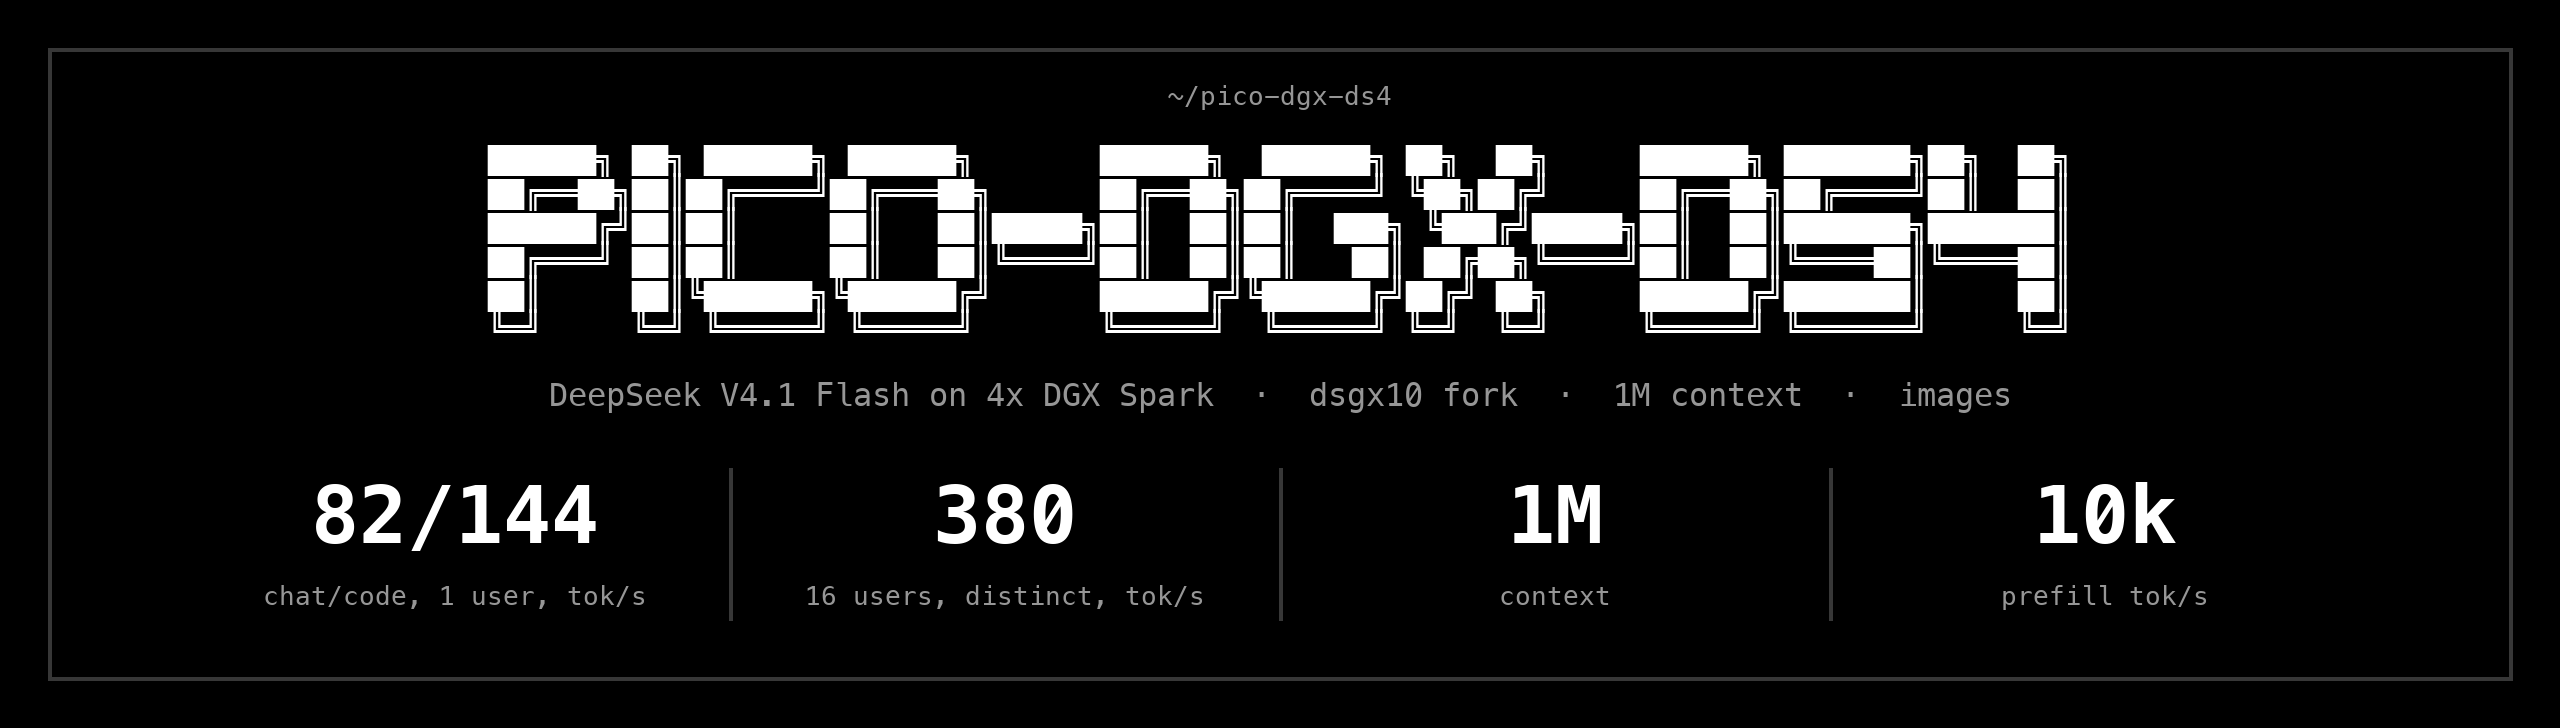
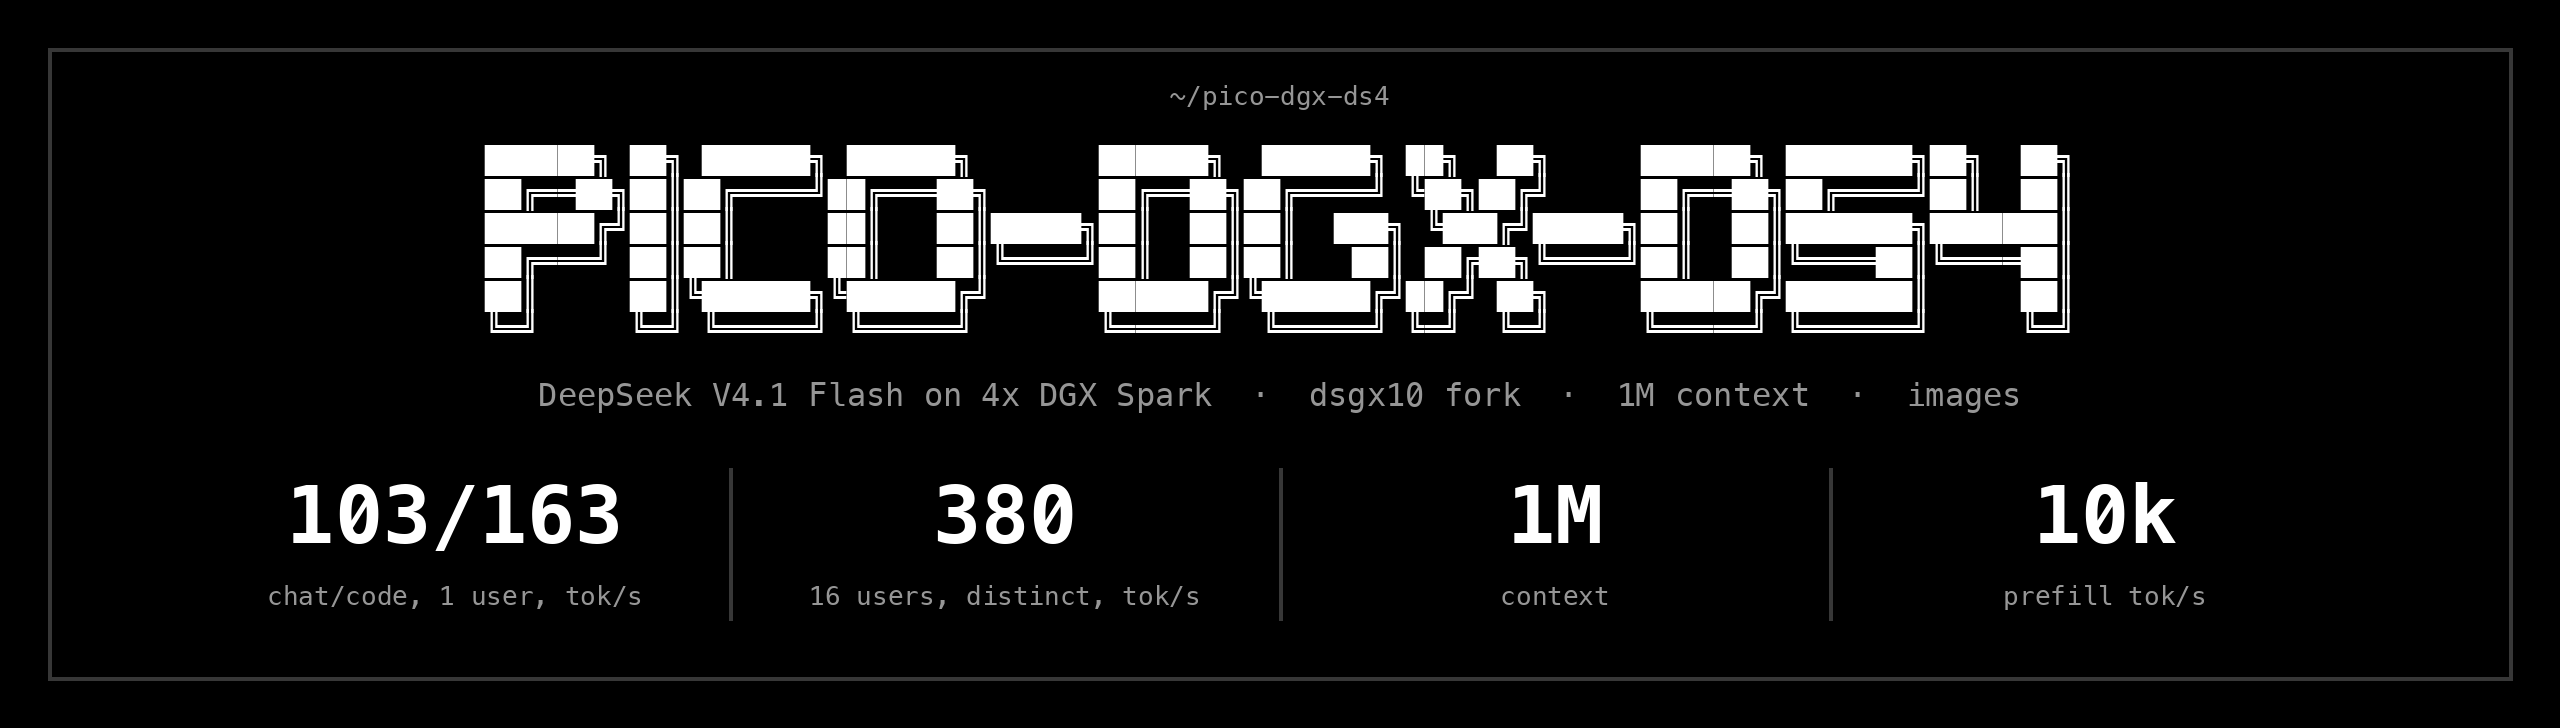
c1fast: relaxed accept for one-user greedy decode (DSGB10_RELAX_P=0.003, DSGB10_RELAX_THRESH=0.05; lossy, opt-in, batches and sampling unchanged): chat c1 82 -> 103, code c1 144 -> 163 (our bench); sparkDash 1.8.8 prose 145 / code 172 (exact build 101 / 166); qeval 72/71/71, distinct c16 381, needle

diff --git a/ds41f-4xgx10-switchless/engine/server/cmd.cpp b/ds41f-4xgx10-switchless/engine/server/cmd.cpp
@@ -181,14 +181,22 @@ DecodeEnd spec_loop(model::Model& m, const Cmd& c, Watchdog& wd, const OnSample&
   cfg.pos_end = pos_end;
   cfg.gate = c.spec_gate;
   std::copy(c.spec_row_ms, c.spec_row_ms + model::ops::kDrafts + 1, cfg.step_ms);
+  // c1fast: DSGB10_RELAX_THRESH=T: a greedy one-session decode verifies drafts while survival >= T (fixed), the gate
+  // that pairs with DSGB10_RELAX's relaxed accept (sample.cu); sampled requests and batch steps keep the default gate
+  static const float relax_thresh = [] {
+    const char* v = getenv("DSGB10_RELAX_THRESH");
+    return v ? (float)atof(v) : -1.f;
+  }();
+  const bool rgate = relax_thresh >= 0.f && !(c.sp.temperature > 0.f);
+  auto gate_of = [&] { return rgate ? relax_thresh : rate.thresh(c); };
   auto verify = [&](int bound) {
-    cfg.thresh = rate.thresh(c);
+    cfg.thresh = gate_of();
     e.gate(cfg.thresh);
     return m.launch_verify(c.sp, cfg, std::min(bound, c.limit - 1));
   };
   std::vector<int32_t> toks{c.tokens[0]};  // tok_0, tok_1, ...: positions pos0, pos0 + 1, ...
   int next_snap = c.snap_every > 0 ? (c.pos0 / c.snap_every + 1) * c.snap_every : INT32_MAX;
-  cfg.thresh = rate.thresh(c);
+  cfg.thresh = gate_of();
   e.gate(cfg.thresh);
   const uint64_t first = m.launch_spec(1, c.pos0, c.tokens, c.sp, cfg);
   int launched = 1, prev_rows = 1;

diff --git a/ds41f-4xgx10-switchless/docs/c1fast.md b/ds41f-4xgx10-switchless/docs/c1fast.md
@@ -1,0 +1,81 @@
+# c1fast: single-stream decode (chat target 100 tok/s, our bench 9-run median, temp 0)
+
+STATUS (2026-11-09 05:52 UTC): DEPLOYED c1c + DSGB10_RELAX_P=0.003 DSGB10_RELAX_THRESH=0.05. Target met on prod:
+chat c1 102.8 / code c1 162.9 (our bench, 9-run medians). Rollback:
+`cp ~/dsgx10/serve.sh.bak-pre-c1fast ~/dsgx10/serve.sh; bash ~/dsgx10/serve.sh stop; ~/dsgx10-wide/prod_up.sh`
+
+Worktree rank3 ~/dsgx10-c1fast (branch c1fast from vision 19821f3, commit d0d1422).
+Test binaries on head ~/dsgx10-wide/night/bins/dsgb10_rank.c1{a,b,c}; prod copy ~/dsgx10/wide-bin/dsgb10_rank.c1c.
+Runs: head ~/dsgx10-wide/night/runs/c1{a,b,c}_*, ~/dsgx10-vision/runs/c1c_*; sparkDash: head ~/c1fast/sd_*.
+
+## 1. Method check: sparkDash 1.8.8 vs our bench
+sparkDash at 754f40a in head ~/c1fast/sd (node 22 container), harness = upstream bench/sparkdash/sdrun.mjs (decode).
+`~/c1fast/sdgo.sh PORT OUTDIR` runs it (~4 min, no downtime against prod).
+| build | sparkDash prose / code (c1, 256 tok, 5 runs) | catalogs prose / structural / code | our bench chat / code |
+|---|---|---|---|
+| upstream README (stock dsgx10, official ckpt, 10-13) | 95.0 / 151.0 | 78.1 / 122.3 / - | ~80 / ~140 |
+| vis1 (prod before) | 101.0 / 166.4 | 77.6 / 127.5 / 154.0 | 81.6 / 140.1 |
+| c1c + RELAX_P=0.003 (prod now) | 145.0 / 171.9 | 105.4 / 151.3 / 152.7* | 102.8 / 162.9 |
+*owner traffic overlapped the code catalog (05:55:49-05:56:11 UTC); treat as approximate.
+Conclusion: the 95/151 vs 80/138 gap was METHOD (sparkDash's single prompt, 256 tokens), not engine.
+
+## 2. c1 step profile (serve logs, our chat bench, vis1)
+| item | value |
+|---|---|
+| chat: verify steps / 512 tokens | ~270; 1.4-1.5 drafts verified, 0.8-0.9 accepted per step (1.85 tok/step) |
+| GPU ms by rows (incl. ~2.5 ms draft pass) | 1: 19.1, 2: 22.0, 3: 25.0, 4: 27.9, 5: 30.4, 6: 33-34 |
+| host/front overhead | ~0: 512 tok in 6.3 s = steps x step ms; next step is queued before the previous ends |
+| k=1 step (docs/engine.md, nsys) | 18.6 ms: weights 14.3 ms floor at ~234 GB/s, collectives ~2.0, attention ~0.7, gaps 0.2 |
+Ceiling math: lossless cuts of fixed cost (collectives, gaps) are worth <= ~10 % (2 ms of 19-23 ms). Chat at 100
+needs ~2.3 tok/step at today's step cost; the DSpark drafter's greedy top-1 is right only ~57 % at depth 1 on prose
+(tree study), so lossless acceptance cannot get there (trees/PLD/gates measured at <= +1-4 % in docs/engine.md).
+
+## 3. What was built (lossy, opt-in, single-session greedy only)
+- DSGB10_RELAX_P=P (sample.cu): in a one-session greedy verify step, row b's token becomes row b+1's draft when the
+  draft's probability under the target (logit - logZ, exact over the 4 ranks) is >= P and the row's argmax differs.
+  The draft's logit rides the existing sample all-gather (RowCand.dl, +16 B per row). DSGB10_RELAX=G: logit-gap form.
+- DSGB10_RELAX_THRESH=T (cmd.cpp): greedy one-session decodes verify drafts while survival >= T (fixed gate);
+  sampled requests (temperature > 0) and every batch step (sbatch) keep the default gate and exact accept.
+- Multi-user, sampled traffic, prefill, images: same code path as vis1 by construction (flags only read in the
+  one-session greedy spec loop / non-sbatch sample).
+
+## 4. Sweeps (18901, 9-run medians, chat / code)
+| variant | chat | code | qeval c1 |
+|---|---|---|---|
+| base (c1a, off) | 79.3 | 143.0 | 71/75 |
+| RELAX 1 / 2 / 3 / 4 / 6 | 81.7 / 83.9 / 83.8 / 86.2 / 91.6 | 147-154 | |
+| --spec-thresh 0.08 / 0.12 alone | 79.5 / 79.9 | 143.9 / 137.8 | |
+| RELAX 3 + thresh 0.08 | 89.3 | 154.1 | 73/75 |
+| RELAX 6 + thresh 0.05 | 108.7 (102.9 rerun) | 160.7 | 71/75 (broke code_two_sum) |
+| RELAX 8 + RTHRESH 0.05 | 123.4 | 168.0 | 70/75 (broke two_sum, spiral): FAILS |
+| RELAX_P 0.02 / 0.01 | 91.3 / 95.6 | 158.9 / 162.4 | |
+| RELAX_P 0.005 + RTHRESH 0.05 | 101.5, 98.1 | 163.1, 163.3 | 72/75 (broke 0) |
+| RELAX_P 0.003 + RTHRESH 0.05 (DEPLOYED) | 101.8, 104.1 | 163.0, 163.7 | 72/75 (broke 0, fixed 1) |
+| RELAX_P 0.002 + RTHRESH 0.05 | 106.6, 103.7 | 164.5, 163.3 | 71/75 (broke code_two_sum) |
+Lower gate thresholds help only once the relaxed accept raises per-draft acceptance.
+
+## 5. Gates for the deployed setting (c1c + RELAX_P=0.003 + RELAX_THRESH=0.05)
+| gate | vis1 | c1c | bar |
+|---|---|---|---|
+| chat c1 (9-run median) | 79.3-81.6 | 101.8 / 104.1 (18901), 102.8 (prod), 108.2 (abbench 3-run) | 100 |
+| code c1 | 140.1-143.0 | 163.0 / 163.7 (18901), 162.9 (prod) | >= 144 |
+| 16 distinct / copies / 8 distinct | 380.4 / 438.0 / ~300 | 381.4 / 434.1 / 310.7 | ~380 / ~438 / ~300 |
+| abbench code4 / code8 / code16 | 222 / 330 / 438 | 237.0 / 327.8 / 436.5 | |
+| agent load (same day, same script) | 262.0 | 260.0 | -2 % |
+| prefill 8K / 32K | ~10k | 8.8k / 10.05k | ~10k |
+| qeval c1 / c4 / c16 | 71 / 71 / 72 | 72 / 71 / 71 | >= 71 |
+| needle 948K | 3/3 | 3/3 (9.7k tok/s) | 3/3 |
+| images (imgtest.py) | 15/15 | 15/15 | 15/15 |
+Public URL after deploy: /models 200, 17*23 = 391, image request 200 (red square + blue circle, correct).
+
+## 6. Honest caveats
+- Lossy: temperature-0 single-user output is no longer the target's exact argmax: about 1 token in ~10 on prose is
+  a draft the target ranked lower but gave >= 0.3 % probability. qeval passes; it is not bit-identical to vis1.
+- Applies only when one session is decoding and temperature is 0. Pico's agents at sampled defaults, and any
+  multi-session batch, get exactly vis1's behaviour.
+
+## 7. Dead ends / not done (this round)
+- Lower --spec-thresh alone (0.08, 0.12): no gain (79.5, 79.9 vs 79.3): the gate is not the c1 limit.
+- RELAX >= 8 / RELAX_P <= 0.002: faster but qeval 70-71 with a broken code task: rejected.
+- Not attempted (measured ceilings in docs/engine.md): draft trees (+1 %), PLD (+0-4 %), collective tricks (<2 %),
+  persistent GEMVs / carveout (<2 %), clock lock (0). Lossless chat 100 is out of reach on this drafter.

diff --git a/README.md b/README.md
@@ -11,7 +11,7 @@
 
 ```
   ♡  a fork of blaesus/dsgx10 that lets many people share one 4-Spark DeepSeek  ♡
-     same single-user speed  ·  2x+ the multi-user throughput  ·  1M context  ·  images
+     faster single-user  ·  2x+ the multi-user throughput  ·  1M context  ·  images
 ```
 
 > [!TIP]
@@ -28,12 +28,12 @@
 ┌──────────────────────────┬──────────────┬──────────────┬────────────┐
 │ metric                   │ upstream     │ pico-dgx-ds4 │ sglang tp4 │
 ├──────────────────────────┼──────────────┼──────────────┼────────────┤
-│ chat, 1 user             │ 80           │ 82           │ 64         │
-│ code, 1 user             │ 140          │ 144          │ 117        │
+│ chat, 1 user (temp 0)    │ 80           │ 103 *        │ 64         │
+│ code, 1 user (temp 0)    │ 140          │ 163 *        │ 117        │
 │ 8 users, distinct        │ -            │ 300          │ -          │
 │ 16 users, distinct       │ -            │ 380          │ -          │
 │ 16 users, copies         │ 177          │ 438          │ 427        │
-│ agents (8 x 80-300K ctx) │ ~150         │ 266          │ -          │
+│ agents (8 x 80-300K ctx) │ ~150         │ 260-266      │ -          │
 │ prefill                  │ 10k          │ 10k          │ 5.3k       │
 │ max context              │ 256K         │ 1M           │ 1M         │
 │ images                   │ no           │ yes          │ -          │
@@ -43,6 +43,9 @@
   distinct = a different prompt per user; copies = prompts repeated (shares experts
   and drafts, ~15% higher). Upstream and sglang were only measured with copies.
   All numbers are our own bench, not sparkDash.
+  * relaxed accept (DSGB10_RELAX_P=0.003, lossy, qeval 72/75): one user at temp 0
+    only; exact (lossless) build: 82 / 144. On sparkDash 1.8.8's method: prose 145,
+    code 172 (exact build: 101 / 166; upstream README: 95 / 151).
 ```
 
 ## ✧ what changed
@@ -58,6 +61,8 @@
   1-pass drafter ..... DSGB10_DRAFT1=6, every session drafts in one pass
   cost gate .......... DSGB10_WIDE_COST, wide only when the drafts pay for it
   vision ............. image_url / base64 images via the checkpoint's own ViT (side encoder)
+  relaxed accept ..... DSGB10_RELAX_P=0.003, opt-in, one user at temp 0: a draft the model gives
+                       >= 0.3% is kept (lossy, qeval-gated); batches and sampling unchanged
 ```
 
 Per-commit details and measured before/after numbers are in [CHANGES.md](CHANGES.md); the design is in
@@ -91,11 +96,13 @@ Design, protocol and the full numbers: [docs/vision.md](ds41f-4xgx10-switchless/
 DSGB10_ENGINE_ARGS="--max-ctx 1048576 --slots 16 --big-slots 4 \
   --setenv DSGB10_BUDGET=1 --setenv DSGB10_OEA=4,12,9 \
   --setenv DSGB10_DRAFT1=6 --setenv DSGB10_WIDE=64 \
-  --setenv DSGB10_WIDE_COST=24,2.2,57,1.1"
+  --setenv DSGB10_WIDE_COST=24,2.2,57,1.1 \
+  --setenv DSGB10_RELAX_P=0.003 --setenv DSGB10_RELAX_THRESH=0.05"
 ```
 
 The full 4-Spark setup (switch, kernel, weights, serve, benchmarks) is in its companion repo,
-**spark-deepseek-setup**. Drop `DSGB10_OEA` for a strictly lossless build. For images, start the encoder
+**spark-deepseek-setup**. Drop `DSGB10_OEA`, `DSGB10_RELAX_P` and `DSGB10_RELAX_THRESH` for a strictly lossless build
+(details: [docs/c1fast.md](ds41f-4xgx10-switchless/docs/c1fast.md)). For images, start the encoder
 (`tools/vision/vision_encoder.py`, see [docs/vision.md](ds41f-4xgx10-switchless/docs/vision.md#running-it)) and add
 `--vision-addr 127.0.0.1:18950` to the front-end's arguments.
 
@@ -103,7 +110,7 @@ The full 4-Spark setup (switch, kernel, weights, serve, benchmarks) is in its co
 
 ```
   engine, kernels, RoCE ring, drafter ...... Andy Shu, blaesus/dsgx10 (MIT)  ♡ thank you
-  multi-user, 1M context, wide step ........ Pico (Patrick Moorhead), this fork
+  multi-user, 1M context, wide step, relax .. Pico (Patrick Moorhead), this fork
 ```
 
 The upstream LICENSE and NOTICE are unchanged and cover this fork. Upstream's README follows.

diff --git a/CHANGES.md b/CHANGES.md
@@ -42,3 +42,13 @@ Engine args for the last row: `--max-ctx 1048576 --slots 16 --big-slots 4 --sete
 | # | Change | Files | Default | Lossless | Before -> after |
 |---|---|---|---|---|---|
 | 11 | Image input: side encoder (the checkpoint's `inference/vision.py` + `image_processor.py`, SDPA on contiguous 4D views: MATH -> flash, 3.1 s -> 0.39 s per 444-token image); dsfront `--vision-addr` accepts `image_url`/`image` parts, expands each placeholder into its span; SUBMIT flag 8 carries the spans' rows; prefill injects them, span rows route with `ffn.gate.bias_vl`, Engram dead on spans; decode untouched | `tools/vision/`, `frontend/src/{vision,server,protocol,main}.rs`, `engine/common/frontend_protocol.h`, `engine/model/{prefill,model,ops}.cu`, `engine/server/{serve,cmd}.cpp`, `engine/engram/hash.cpp` | off (needs `--vision-addr`) | text: same path | images refused (400) -> 15/15 image checks, ~0.26 s TTFT per image; text: chat/code c1 79.7/138.4 -> 81.9/144.4, distinct c16 367 -> 380, agent 260 -> 266, qeval 71/71 -> 71/72, needle 948K 3/3 (noise) |
+
+## Single user (c1fast)
+
+| # | Change | Files | Default | Lossless | Before -> after |
+|---|---|---|---|---|---|
+| 12 | Relaxed accept for one-session greedy decode (`DSGB10_RELAX_P=P`: a draft the target gives >= P probability is kept as the row's token; `DSGB10_RELAX=G` logit-gap form) + `DSGB10_RELAX_THRESH=T` fixed verify gate for one-session greedy decodes. Batch steps and sampled requests keep exact accept and the default gate | `engine/model/sample.cu`, `engine/server/cmd.cpp` | off | **no** | with P=0.003, T=0.05: chat c1 81.6 -> 102.8, code c1 140.1 -> 162.9 (our bench, 9-run medians); sparkDash prose 101 -> 145, code 166 -> 172; qeval c1/c4/c16 72/71/71; distinct c16 381, copies 434, distinct c8 311, agent 260 (vis1 same day 262), needle 948K 3/3, images 15/15 |
+
+Method check (sparkDash 1.8.8 at 754f40a, upstream's own sdrun.mjs harness): upstream's README 95 / 151 vs our 80 / 140
+was the method (one easier prompt, 256 tokens), not the engine: the exact build scores 101 / 166 on sparkDash. Full
+sweep and profile: [docs/c1fast.md](ds41f-4xgx10-switchless/docs/c1fast.md).
